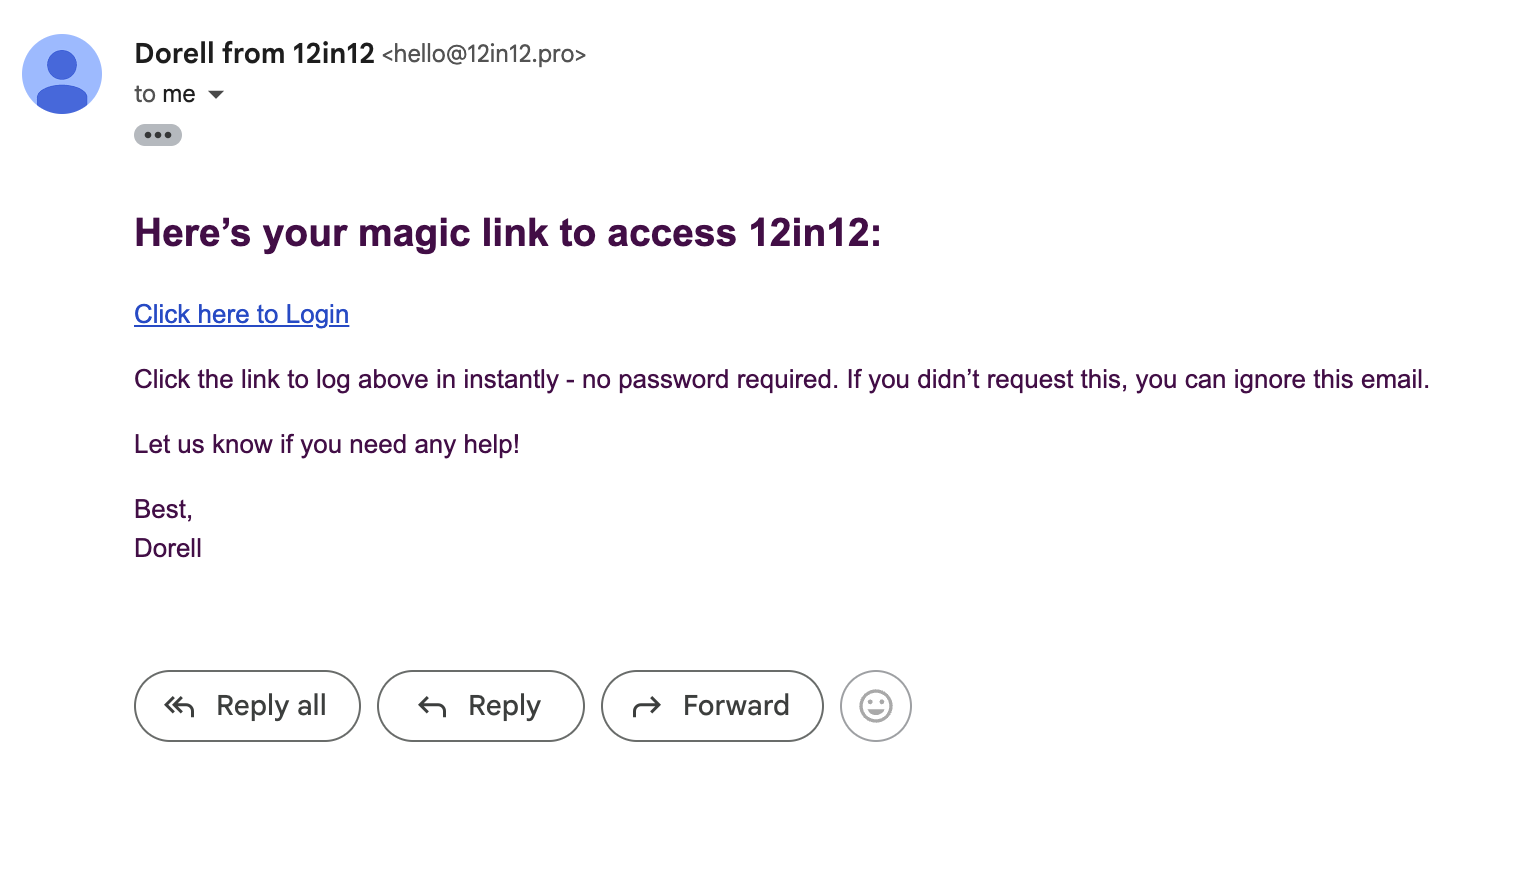
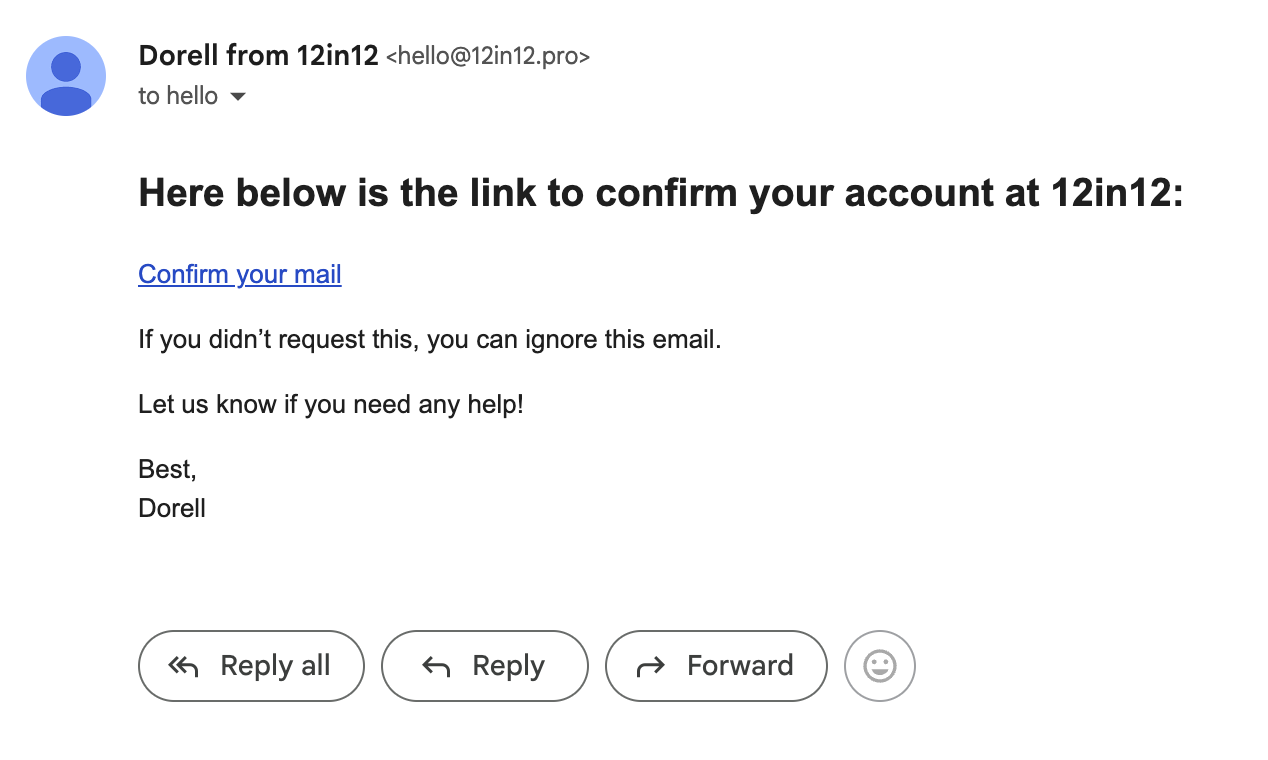
feat: support for signup

diff --git a/src/pages/api/auth/confirm.ts b/src/pages/api/auth/confirm.ts
@@ -1,0 +1,86 @@
+import type { APIRoute } from "astro";
+import { supabase } from "../../../lib/supabase";
+
+// Handle POST request for access token authentication
+export const POST: APIRoute = async ({ request, cookies }) => {
+  try {
+    const { access_token, refresh_token } = await request.json();
+
+    if (!access_token || !refresh_token) {
+      return new Response(
+        JSON.stringify({
+          success: false,
+          error: "Invalid authentication credentials",
+        }),
+        { status: 400 }
+      );
+    }
+
+    const { data, error } = await supabase.auth.setSession({
+      access_token,
+      refresh_token,
+    });
+
+    if (error) throw error;
+
+    // Set auth cookies
+    cookies.set("sb-access-token", access_token, {
+      path: "/",
+      secure: true,
+      httpOnly: true,
+    });
+    cookies.set("sb-refresh-token", refresh_token, {
+      path: "/",
+      secure: true,
+      httpOnly: true,
+    });
+
+    return new Response(
+      JSON.stringify({
+        success: true,
+      }),
+      { status: 200 }
+    );
+  } catch (error) {
+    return new Response(
+      JSON.stringify({
+        success: false,
+        error:
+          error instanceof Error ? error.message : "Failed to authenticate",
+      }),
+      { status: 500 }
+    );
+  }
+};
+
+// Handle GET request for OTP verification
+export const GET: APIRoute = async ({ url, redirect }) => {
+  const token_hash = url.searchParams.get("token_hash");
+  const type = url.searchParams.get("type");
+  const next = url.searchParams.get("next") || "/profile";
+
+  if (!token_hash || !type) {
+    return redirect(
+      `/signin?error=${encodeURIComponent("Invalid confirmation link")}`
+    );
+  }
+
+  try {
+    const { error } = await supabase.auth.verifyOtp({
+      token_hash,
+      type: type as any,
+    });
+
+    if (error) {
+      return redirect(`/signin?error=${encodeURIComponent(error.message)}`);
+    }
+
+    return redirect(`${next}?verified=true`);
+  } catch (error) {
+    return redirect(
+      `/signin?error=${encodeURIComponent(
+        error instanceof Error ? error.message : "Failed to verify email"
+      )}`
+    );
+  }
+};

diff --git a/src/pages/api/auth/check-verification.ts b/src/pages/api/auth/check-verification.ts
@@ -1,10 +1,5 @@
 import type { APIRoute } from "astro";
-import { createClient } from "@supabase/supabase-js";
-
-const supabase = createClient(
-  import.meta.env.PUBLIC_SUPABASE_URL,
-  import.meta.env.PUBLIC_SUPABASE_ANON_KEY
-);
+import { supabase } from "../../../lib/supabase";
 
 export const POST: APIRoute = async ({ request }) => {
   try {
@@ -18,11 +13,22 @@ export const POST: APIRoute = async ({ request }) => {
     // Check if the user is logged in and their email matches
     const verified =
       session?.user?.email === email && session?.user?.email_confirmed_at;
+    const emailConfirmed = session?.user?.email_confirmed_at ? true : false;
+    const isCurrentUser = session?.user?.email === email;
 
     return new Response(
       JSON.stringify({
         success: true,
         verified,
+        emailConfirmed,
+        isCurrentUser,
+        message: !verified
+          ? !emailConfirmed
+            ? "Please check your email to confirm your account"
+            : !isCurrentUser
+            ? "Email does not match current user"
+            : "Unknown verification error"
+          : "Email verified successfully",
       }),
       { status: 200 }
     );

diff --git a/src/pages/api/join.ts b/src/pages/api/join.ts
@@ -142,10 +142,14 @@ export const POST: APIRoute = async ({ request }) => {
       email: email!,
       options: {
         shouldCreateUser: true,
+        emailRedirectTo: import.meta.env.DEV
+          ? "http://localhost:1234/api/auth/confirm"
+          : "https://12in12.pro/api/auth/confirm",
       },
     });
 
     if (error) {
+      console.log("🚀 ~ constPOST:APIRoute= ~ error:", error);
       return new Response(error.message, { status: 500 });
     }
 
